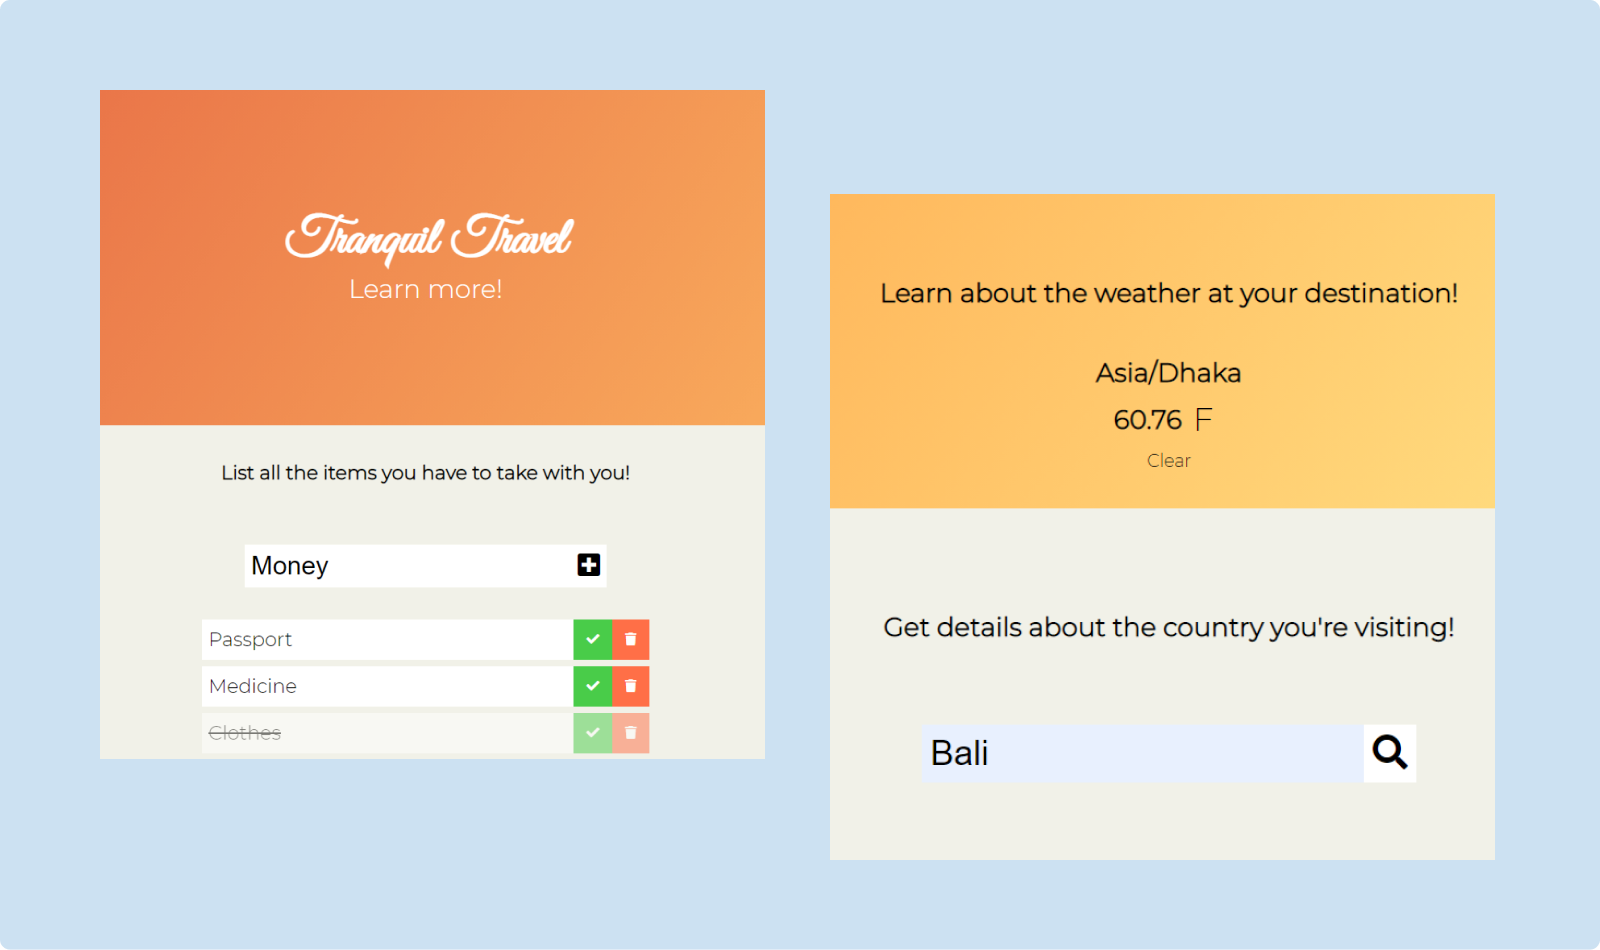
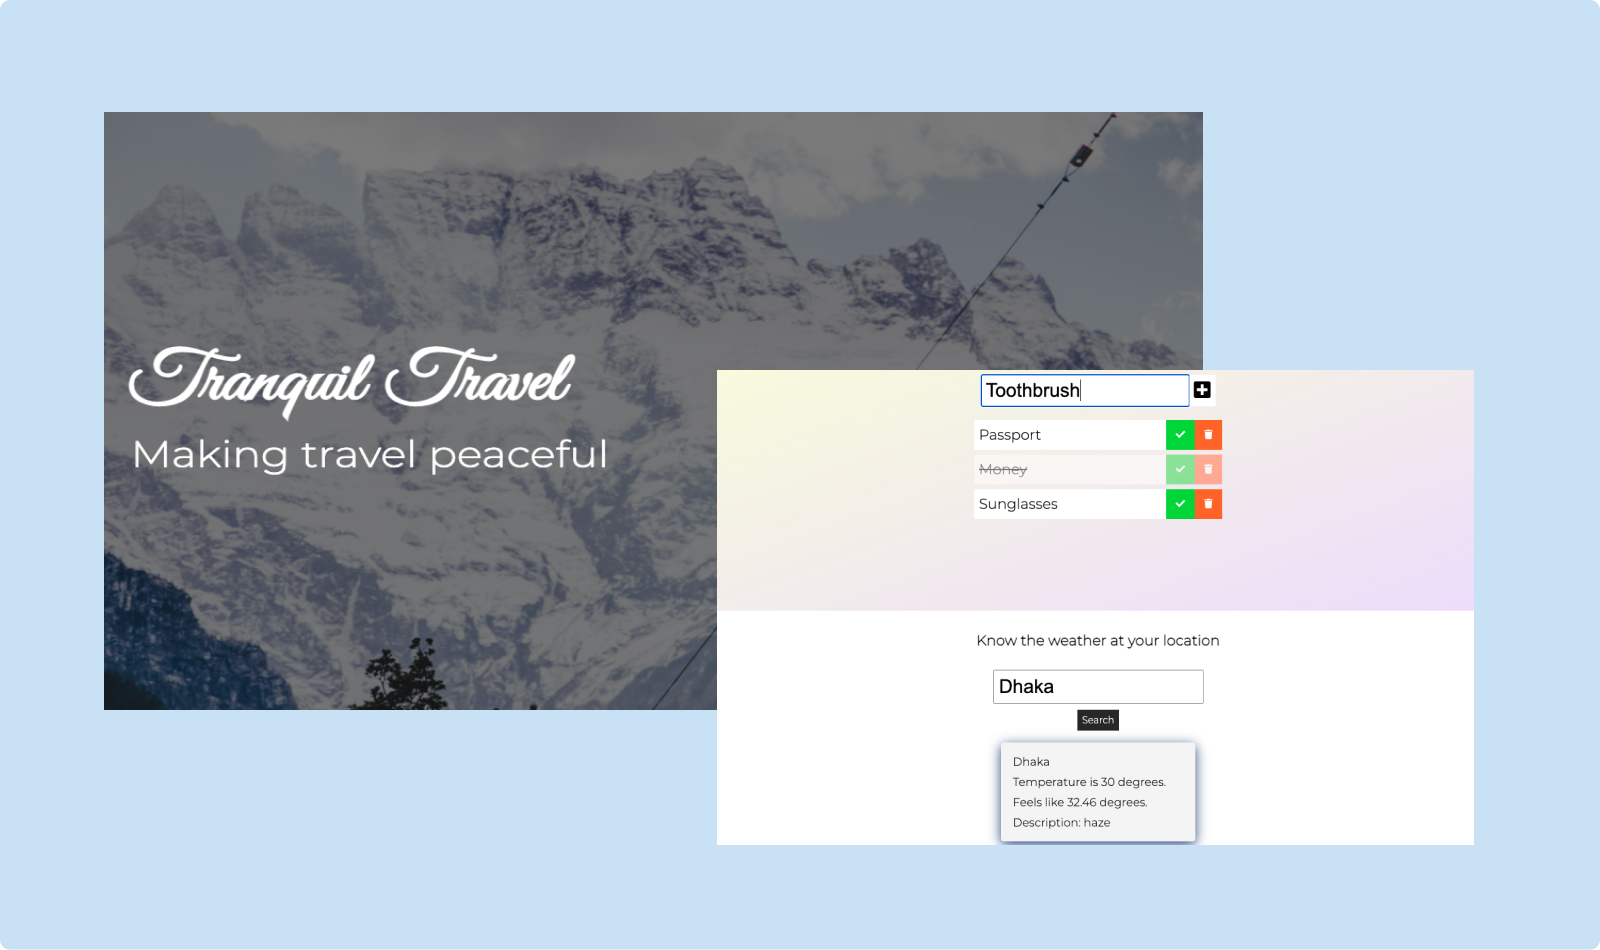
changed tranquil-travel image

diff --git a/index.html b/index.html
@@ -186,18 +186,19 @@
         </div>
 
     <div class="holdingcontainer">
-      <div class="internalcontainerL"><h2>Tranquil Travel</h2>
-      <img src="images/tt.png" width="100%"/>
+      <div class="internalcontainerL"><h2>Creators' Colosseum</h2>
+      <img src="images/cc.png" width="100%"/>
       <div>
       </div>
       <div style="padding-top: 20px;">
       </div>
       <ul>
-      <li>Used HTML, CSS and JavaScript to create a site dedicated to help travellers plan their tours</li>
- <li>Utilised a Rest API to allow users to check the weather when they arrive at their destination</li>
- <li>Created a list to which users can add, delete and cross out items using Javascript to let them keep track of items they need while traveling</li>
- <li>Designed an HTML form that redirects users to TripAdvisor’s search page based on their queries</li>
-</ul>
+       <li>Developed a WordPress site dedicated to artists to showcase their artwork</li>
+<li>Used the Ultimate Member plugin for user profiles, WP User Frontend to let users upload work directly to the blog page and myCred to automate the points management system and make a leaderboard </li>
+<li>Used Elementor, Adobe Photoshop and Canva to design the UI </li>
+<li>Built an online community of over 500 artists within the first three months and arranged the first virtual 
+    competition, receiving over 100 submissions in the official website</li>
+    </ul>
       <section class="butto">
 <div ontouchstart="">
   <div class="buttons">
@@ -206,15 +207,14 @@
 </div>
 </section></div>
 
-      <div class="internalcontainerM"><h2>Creators' Colosseum</h2><img src="images/CC.png" width="100%"/>
+      <div class="internalcontainerM"><h2>Quest Gaia</h2><img src="images/questgaia.png" width="100%"/>
       <div style="padding-top: 20px;">
       </div>
       <ul>
-      <li>Developed a WordPress site dedicated to artists to showcase their artwork</li>
-<li>Used the Ultimate Member plugin for user profiles, WP User Frontend to let users upload work directly to the blog page and myCred to automate the points management system and make a leaderboard </li>
-<li>Used Elementor, Adobe Photoshop and Canva to design the UI </li>
-<li>Built an online community of over 500 artists within the first three months and arranged the first virtual 
-    competition, receiving over 100 submissions in the official website</li>
+       <li> Worked on the UI/UX design of an app idea to help tackle global warming by assigning users weekly activities,
+    notifying them to participate in community events and showing nearby organic stores      </li>
+<li>Designed the pages and prototyped the app using Figma and developed a high fidelity mockup of the application 
+    to collect initial user feedback      </li>
 
       </ul> <section class="butto">
 <div ontouchstart="">
@@ -224,14 +224,16 @@
 </div>
 </section></div>
 
-      <div class="internalcontainerR"><h2>Quest Gaia</h2><img src="images/questgaia.png" width="100%"/>
+      <div class="internalcontainerR"><h2>Tranquil Travel</h2><img src="images/tt.png" width="100%"/>
       <div style="padding-top: 20px;">
       </div>
       <ul>
-     <li> Worked on the UI/UX design of an app idea to help tackle global warming by assigning users weekly activities,
-    notifying them to participate in community events and showing nearby organic stores      </li>
-<li>Designed the pages and prototyped the app using Figma and developed a high fidelity mockup of the application 
-    to collect initial user feedback      </li>
+      <li>Used HTML, CSS and JavaScript to create a site dedicated to help travellers plan their tours</li>
+ <li>Utilised a Rest API to allow users to check the weather when they arrive at their destination</li>
+ <li>Created a list to which users can add, delete and cross out items using Javascript to let them keep track of items they need while traveling</li>
+ <li>Designed an HTML form that redirects users to TripAdvisor’s search page based on their queries</li>
+
+     
       
       
       </ul>
